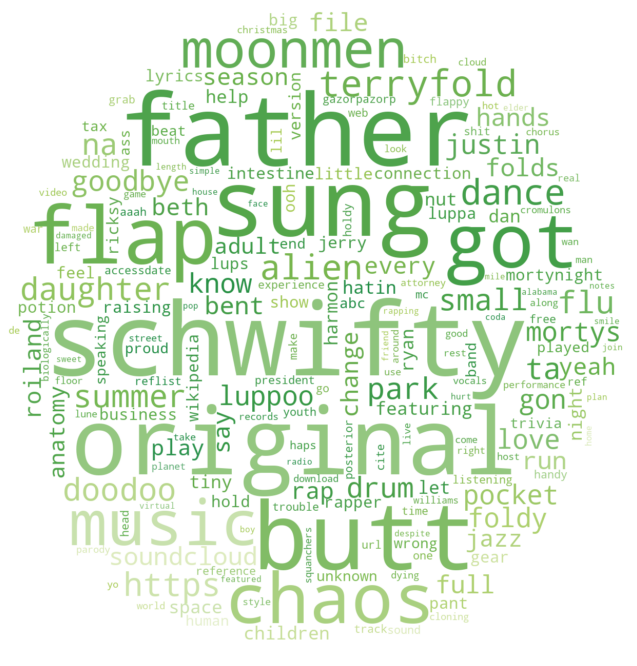
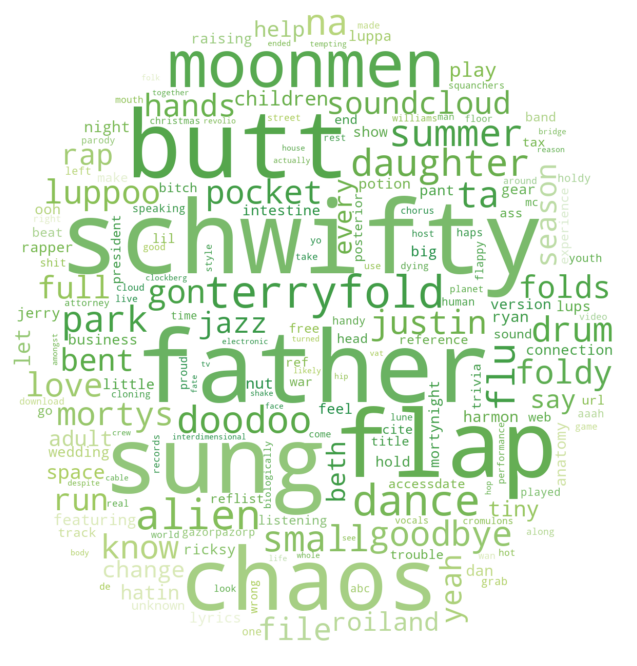
Added songs to NLP

diff --git a/nlp.html b/nlp.html
@@ -18,7 +18,7 @@
 
         <!-- Bootstrap core CSS -->
         <link rel="stylesheet" href="https://stackpath.bootstrapcdn.com/bootstrap/4.4.1/css/bootstrap.min.css" integrity="sha384-Vkoo8x4CGsO3+Hhxv8T/Q5PaXtkKtu6ug5TOeNV6gBiFeWPGFN9MuhOf23Q9Ifjh" crossorigin="anonymous">
-        
+
         <link rel="shortcut icon" href="https://vignette.wikia.nocookie.net/rickandmorty/images/6/64/Favicon.ico/revision/latest?cb=20160924233037">
     </head>
 
@@ -51,14 +51,14 @@
             <!-- Episodes Transcripts -->
             <section class="head-section">
                 <div class="container">
-                    <div class="row align-items-center">
+                    <div class="row d-flex justify-content-center align-content-center">
                         <div class="p-5">
                             <!-- Section Title -->
                             <h1 class="display-4">Episodes Transcripts</h1>
                             <p>In that section, we will tackle everything Natural Langage Processing. We will talk about how we analyze song lyrics and episodes transcripts and then discuss the results!</p>
 
                             <!-- Sentiment Score -->
-                            <div class="container-fluid row p-5">
+                            <div class="container">
                                 <!-- General View -->
                                 <div class="row">
                                     <h2>Sentiment Analysis</h2>
@@ -106,7 +106,8 @@
                                 </div>
 
                                 <figure class="full-width">
-                                    <img class="img-fluid" src="./plots/rm_sentiment_score.png">
+                                    <div class="d-flex align-content-center justify-content-center"><img class="img-fluid" src="./plots/rm_sentiment_score.png"></div>
+
                                     <figcaption class="caption">Rick vs Morty sentiment scores over time</figcaption>
                                 </figure>
 
@@ -132,7 +133,7 @@
 
                                 <!-- Morty WC -->
                                 <div class="row align-content-center full-width mb-3 w-100">
-                                    <div class="wc-full-width col-9">
+                                    <div class="col-9 d-flex justify-content-center align-content-center wc-full-width">
                                         <figure>
                                             <img class="img-fluid" src="./plots/wc_morty.png">
                                             <figcaption class="caption">Morty's word clouds</figcaption>
@@ -183,7 +184,7 @@
                                         </table>
                                     </div>
 
-                                    <div class="wc-full-width col-9">
+                                    <div class="col-9 d-flex justify-content-center align-content-center wc-full-width">
                                         <figure>
                                             <img class="img-fluid" src="./plots/wc_rick.png">
                                             <figcaption class="caption">Rick's word clouds</figcaption>
@@ -208,7 +209,7 @@
 
                                 <!-- S1 WC -->
                                 <div class="row align-content-center full-width mb-3 w-100">
-                                    <div class="wc-full-width col-9">
+                                    <div class="col-9 d-flex justify-content-center align-content-center wc-full-width">
                                         <figure>
                                             <img class="img-fluid" src="./plots/wc_season_1.png">
                                             <figcaption class="caption">Season 1 Word Cloud</figcaption>
@@ -297,7 +298,7 @@
                                         </table>
                                     </div>
 
-                                    <div class="wc-full-width col-9">
+                                    <div class="col-9 d-flex justify-content-center align-content-center wc-full-width">
                                         <figure>
                                             <img class="img-fluid" src="./plots/wc_season_2.png">
                                             <figcaption class="caption">Season 2 Word Cloud</figcaption>
@@ -307,7 +308,7 @@
 
                                 <!-- S3 WC -->
                                 <div class="row align-content-center full-width mb-3 w-100">
-                                    <div class="wc-full-width col-9">
+                                    <div class="col-9 d-flex justify-content-center align-content-center wc-full-width">
                                         <figure>
                                             <img class="img-fluid" src="./plots/wc_season_3.png">
                                             <figcaption class="caption">Season 3 Word Cloud</figcaption>
@@ -406,7 +407,9 @@
                             </div>
 
                             <figure class="full-width">
-                                <img class="img-fluid" src="./plots/rm_profanity_score.png">
+                                <div class="d-flex justify-content-center align-content-center">
+                                    <img class="img-fluid" src="./plots/rm_profanity_score.png"></div>
+
                                 <figcaption class="caption">Sentiment Score vs. Profanity</figcaption>
                             </figure>
 
@@ -437,13 +440,29 @@
                             <p>Aww Jeez, Rick & Morty songs, let's try and figure out what makes them so special !</p>
 
                             <div class="container-fluid">
-                                <!-- Songs WC -->
+                                <!-- Sentiment -->
                                 <div class="row">
-                                    <h2>Word Clouds</h2>
+                                    <h2>Sentiment</h2>
                                 </div>
 
-                                <div class="row align-content-center full-width mb-3 w-100">
-                                    <div class="wc-full-width col-9">
+                                <figure class="full-width">
+                                    <div class="d-flex justify-content-center align-content-center">
+                                        <img class="img-fluid" src="./plots/sentiment_score_songs.png"></div>
+
+                                    <figcaption class="caption">Sentiment Score per songs</figcaption>
+                                </figure>
+
+                                <div class="row align-content-center mb-3">
+                                    <p class="w-100">As it turns out, the sentiment score varies across the series' discography. The songs with the lowest scores are: 'Luppoo Luppoo' and 'I'm a Tax Attorney'. The first one conists only of made-up, meaningless words while in the second one a comedian is singing that no religion can be compared to him being a Tax Attorney - which also seems a bit emotionless. When it comes to the songs with the highest score, the winner is 'Handy Hands'. It was sung in the episode "Raising Gazorpazorp. When Morty was raising Morty Jr., he turned on the TV to a children show where a man was singing this tune. Later in the episode, the song was sung again by Morty to calm Morty Jr. down, which succeeded, and also made him sing along - could you imagine anything more sentimental than this?</p>
+                                </div>
+
+                                <!-- Songs WC -->
+                                <div class="row">
+                                    <h2>Word Cloud</h2>
+                                </div>
+
+                                <div class="row full-width mb-3 w-100">
+                                    <div class="col-9 d-flex justify-content-center align-content-center wc-full-width">
                                         <figure>
                                             <img class="img-fluid" src="./plots/wc_songs.png">
                                             <figcaption class="caption">Songs Word Cloud</figcaption>
@@ -457,34 +476,34 @@
                                                 </th>
                                             </tr>
                                             <tr>
-                                                <td>-</td>
+                                                <td>schwifty</td>
                                             </tr>
                                             <tr>
-                                                <td>-</td>
+                                                <td>sung</td>
                                             </tr>
                                             <tr>
-                                                <td>-</td>
+                                                <td>butt</td>
                                             </tr>
                                             <tr>
-                                                <td>-</td>
+                                                <td>chaos</td>
                                             </tr>
                                             <tr>
-                                                <td>-</td>
+                                                <td>moonmen</td>
                                             </tr>
                                             <tr>
-                                                <td>-</td>
+                                                <td>dance</td>
                                             </tr>
                                             <tr>
-                                                <td>-</td>
+                                                <td>father</td>
                                             </tr>
                                             <tr>
-                                                <td>-</td>
+                                                <td>flaps</td>
                                             </tr>
                                             <tr>
-                                                <td>-</td>
+                                                <td>alien</td>
                                             </tr>
                                             <tr>
-                                                <td>-</td>
+                                                <td>summer</td>
                                             </tr>
                                         </table>
                                     </div>

diff --git a/css/styles.css b/css/styles.css
@@ -171,8 +171,8 @@ main {
 }
 
 .full-width {
-    margin-left: -5%;
-    margin-right: -5%;
+    /*margin-left: -5%;
+    margin-right: -5%;*/
     
     padding: 10px;
     background-color: #fbfbfb;
